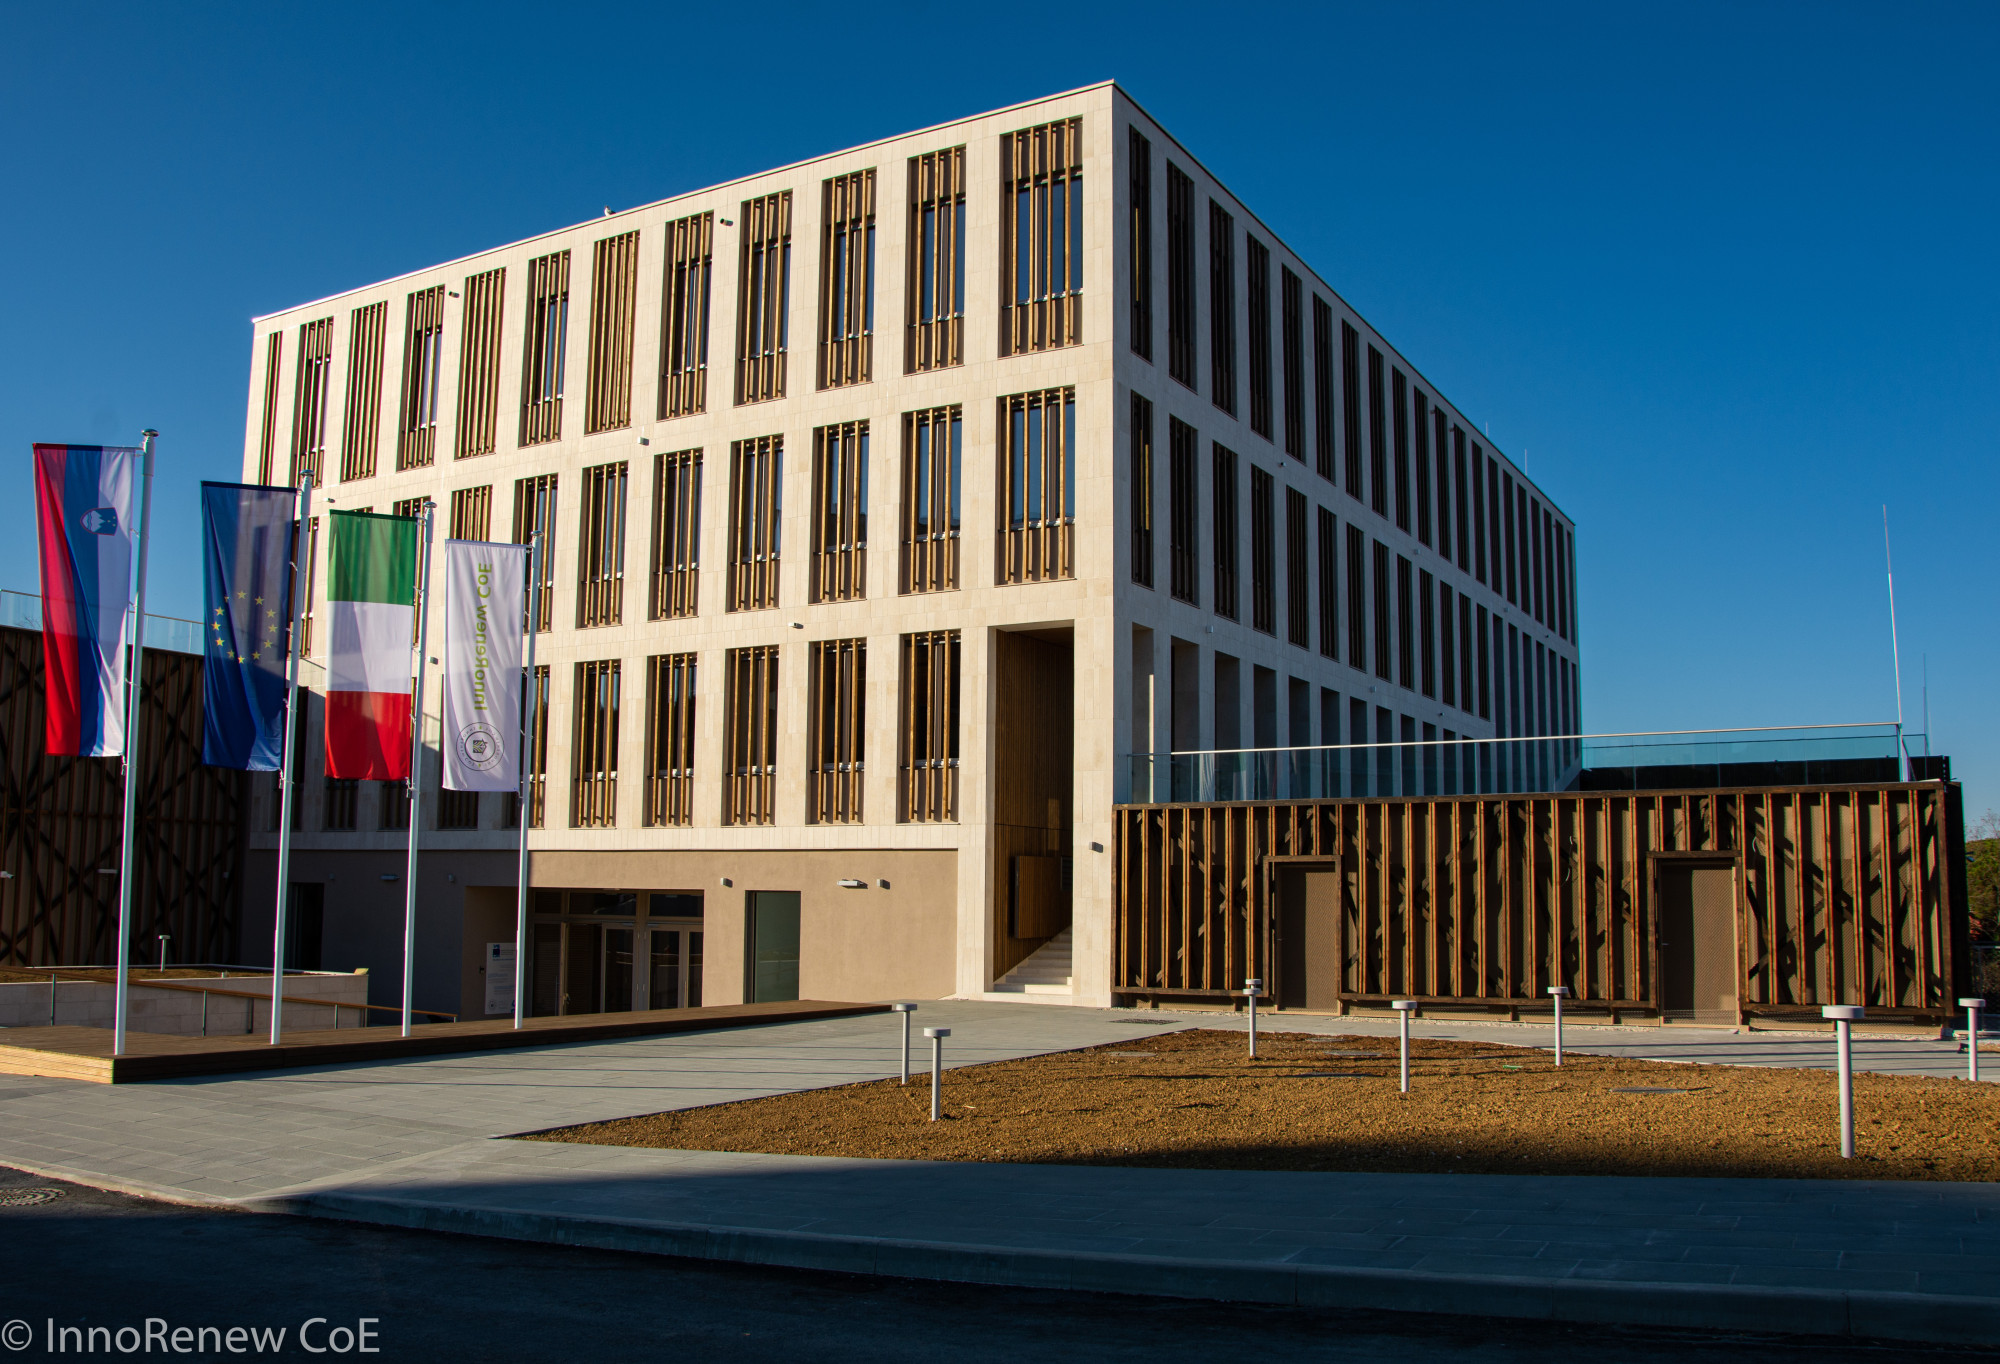
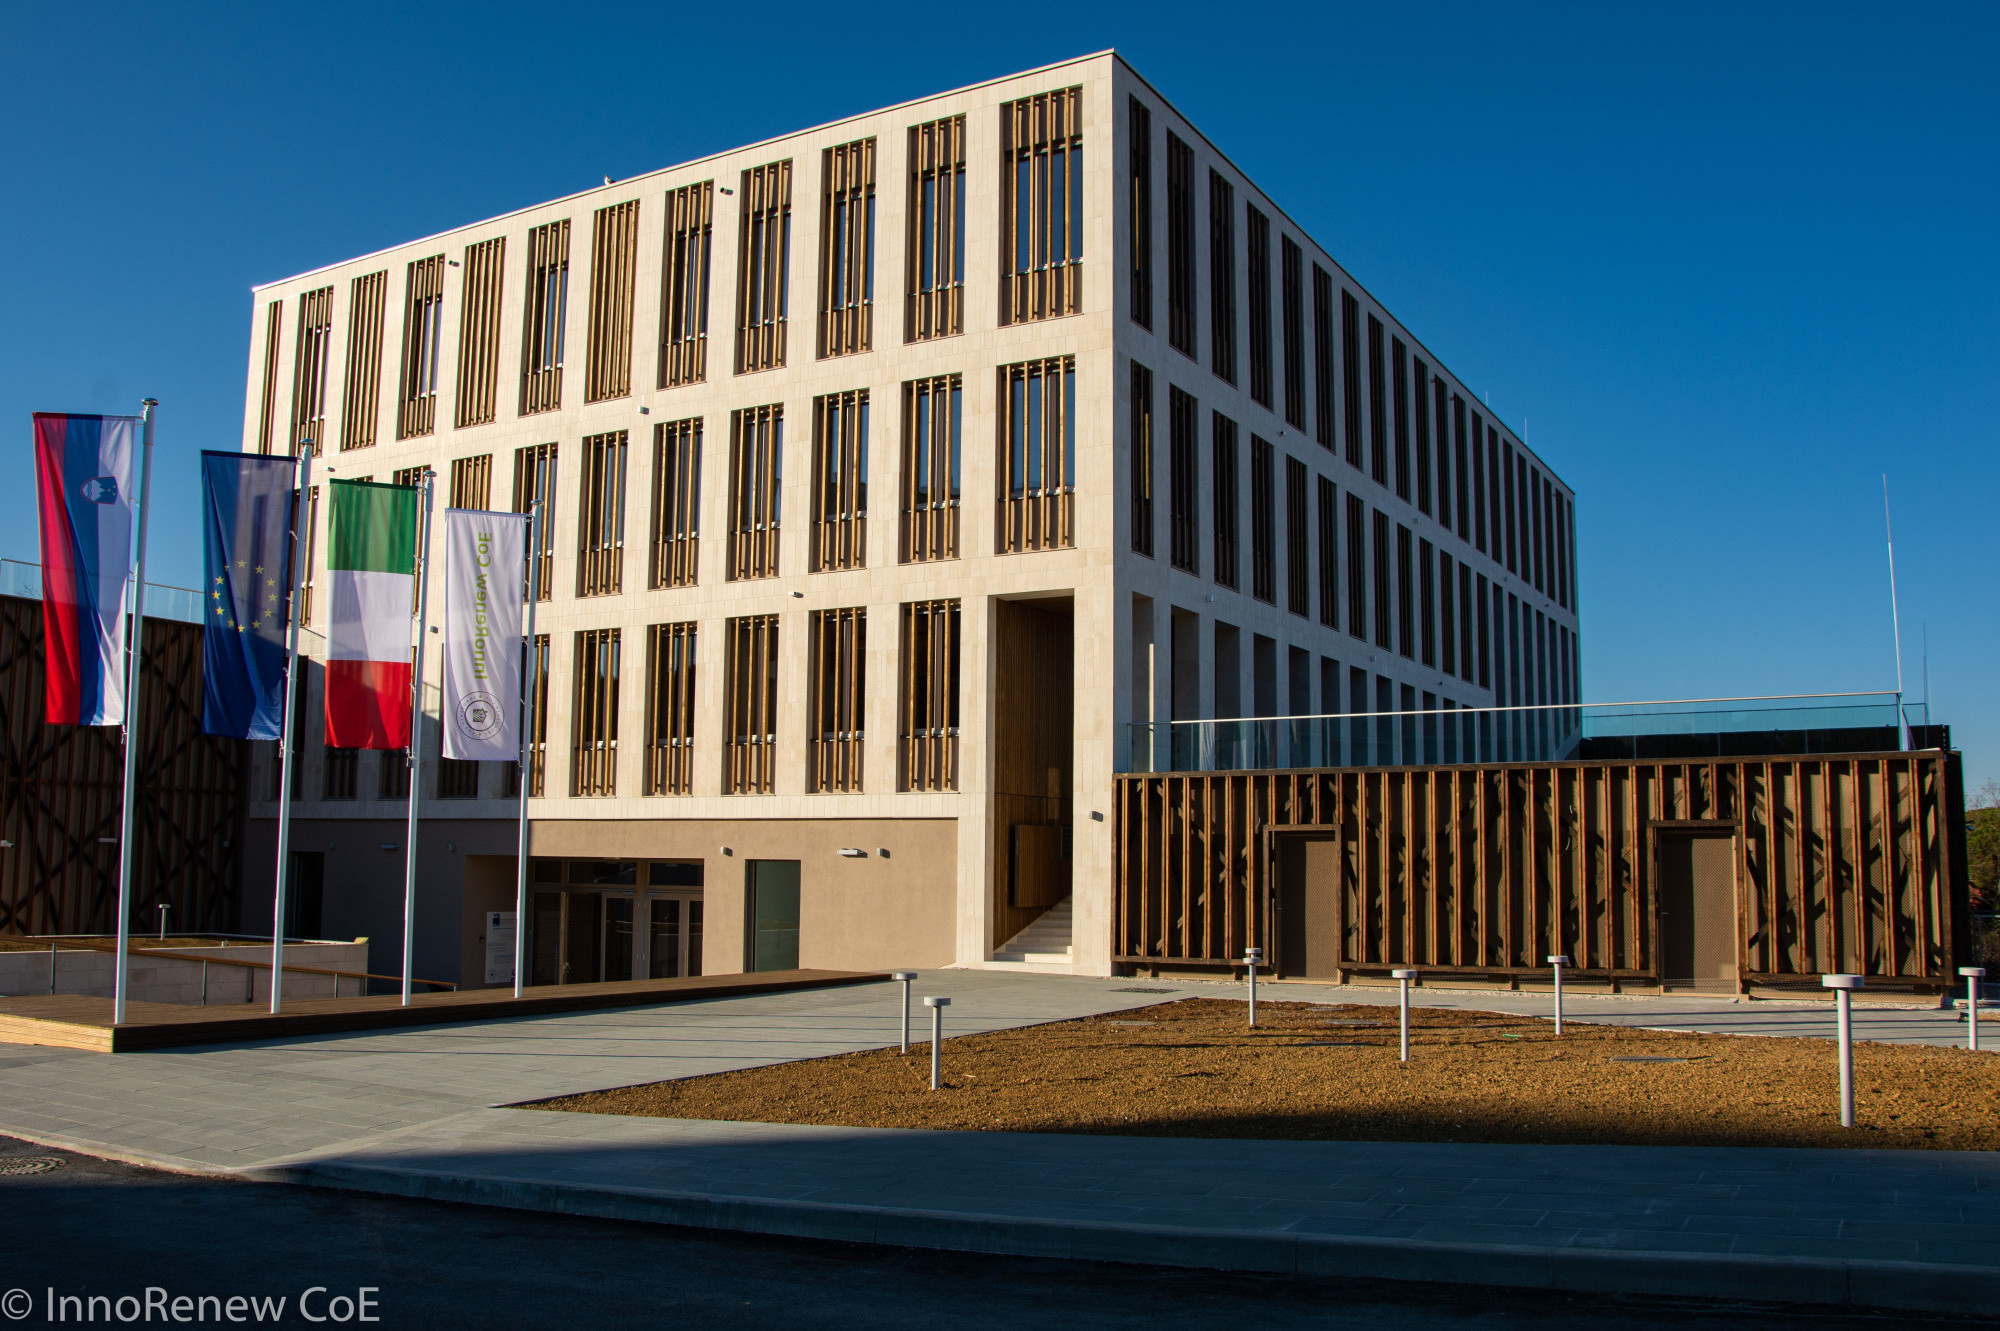
Small corrections.

diff --git a/index.html b/index.html
@@ -67,6 +67,11 @@
                                 </a>
                             </li>
                             <li class="nav-item">
+                                <a class="nav-link" href="#venue">
+                                    Venue
+                                </a>
+                            </li>
+                            <li class="nav-item">
                                 <a class="nav-link" href="#organizers">
                                     Organization
                                 </a>
@@ -74,11 +79,6 @@
                             <li class="nav-item">
                                 <a class="nav-link" href="#comittees">
                                     Committees
-                                </a>
-                            </li>
-                            <li class="nav-item">
-                                <a class="nav-link" href="#location">
-                                    Location
                                 </a>
                             </li>
                             <li class="nav-item">
@@ -188,7 +188,7 @@
                             <li>
                                 <i class="lni-map-marker"></i>
                             </li>
-                            <li><span><b><a href="https://goo.gl/maps/eM5HEym6RGVQtmV28">Location</a></b> InnoRenew CoE, Izola</span></li>
+                            <li><span><b><a href="https://maps.app.goo.gl/gYHERJwVQPb1ByRy6">Location</a></b> InnoRenew CoE, Izola</span></li>
                         </ul>
                     </div>
                     <div class="col-lg-3 col-md-6 col-xs-12">
@@ -1060,7 +1060,7 @@ and Information Technologies</i>
         <!-- Program Section End -->
 
         <!-- Venue Section Start -->
-        <section id="keynote" class="venue section-padding-top">
+        <section id="venue" class="venue section-padding-top">
             <div class="container">
                 <div class="row d-flex justify-content-center">
                     <div class="col-6">
@@ -1083,12 +1083,15 @@ and Information Technologies</i>
                                             <div class="carousel-inner">
                                                 <div class="carousel-item active">
                                                     <img class="d-block w-100" src="assets/img/IZOLAphoto.jpg" alt="Izola venue">
+                                                    <p class="caption">Izola (photo: Luka Kotnik, slovenia.info)</p>
                                                 </div>
                                                 <div class="carousel-item">
                                                     <img class="d-block w-100" src="assets/img/IRphoto1.jpg" alt="Venue photo 1">
+                                                    <p class="caption">InnoRenew CoE Interior (photo: Miran Kambič)</p>
                                                 </div>
                                                 <div class="carousel-item">
                                                     <img class="d-block w-100" src="assets/img/IRphoto2.jpg" alt="Venue photo 2">
+                                                    <p class="caption">InnoRenew CoE Exterior (photo: Miran Kambič)</p>
                                                 </div>
                                             </div>
                                             <a class="carousel-control-prev" href="#venueGallery" role="button" data-slide="prev" aria-label="Previous photo">
@@ -1231,21 +1234,19 @@ and Information Technologies</i>
                     </div>
                     <div class="col-12">
                         <div class="row">
-                            <div class="col-6 text-center committee-col">
+                            <div class="col-4 text-center committee-col">
                                 <a>
                                     Nina Chiarelli <br> <i><small>University of Primorska, Faculty of Mathematics, Natural Sciences
 and Information Technologies</small></i>
                                 </a>
                             </div>
-                            <div class="col-6 text-center committee-col">
+                            <div class="col-4 text-center committee-col">
                                 <a>
                                     Matjaž Krnc <br> <i><small>University of Primorska, Faculty of Mathematics, Natural Sciences
 and Information Technologies</small></i>
                                 </a>
                             </div>
-                        </div>
-                        <div class="row">
-                            <div class="col-6 text-center committee-col">
+                            <div class="col-4 text-center committee-col">
                                 <a>
                                     Domen Šoberl <br> <i><small>University of Primorska, Faculty of Mathematics, Natural Sciences
 and Information Technologies</small></i>

diff --git a/assets/css/main.css b/assets/css/main.css
@@ -2552,3 +2552,17 @@ footer {
   margin-bottom: 3%;
   display: block
 }
+
+.caption {
+    position: absolute;
+    bottom: 0;
+    left: 0;
+    right: 0;
+    background: rgba(0, 0, 0, 0.6);
+    color: #fff;
+    padding: 10px;
+    text-align: center;
+    font-size: 0.9rem;
+    margin-bottom: 20px;
+    height: 30px;
+}
